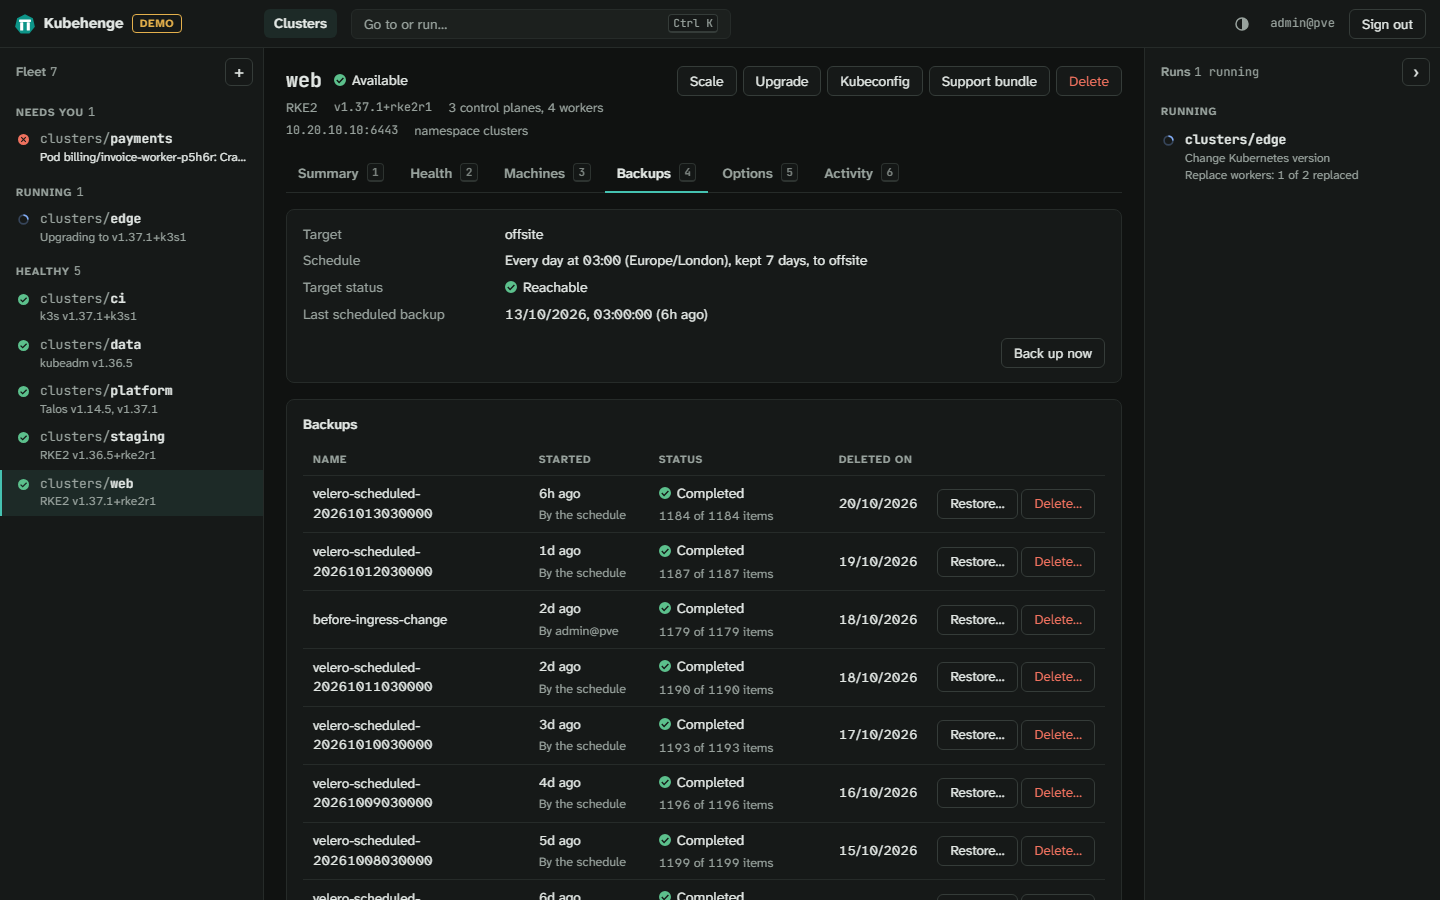
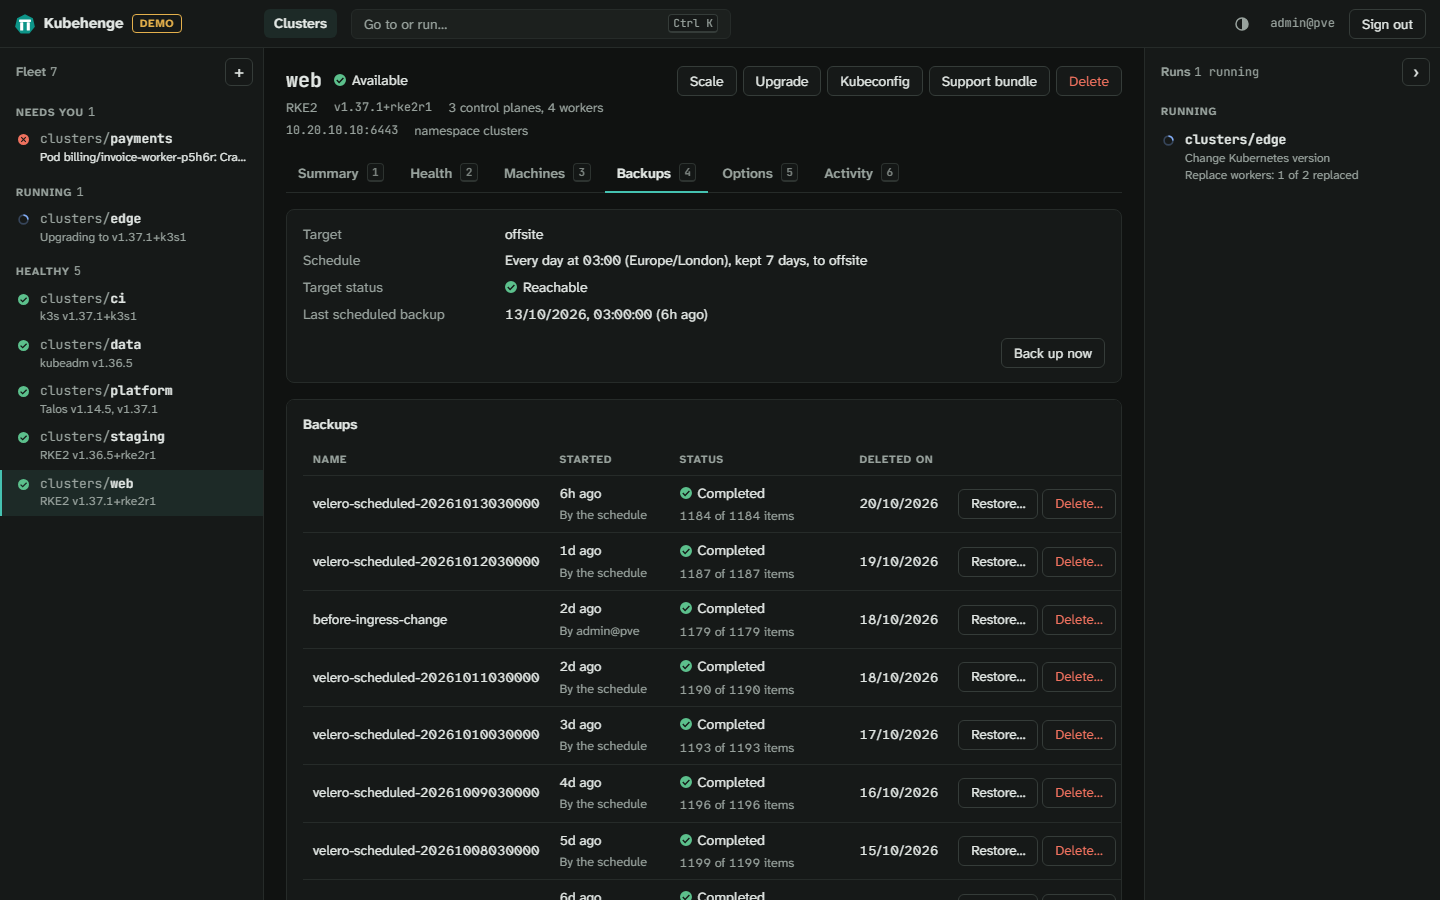
A running run shows its start once, and backup, pool and health check names stay on one line

diff --git a/web/src/RunPage.tsx b/web/src/RunPage.tsx
@@ -31,12 +31,12 @@ const stepDots: Record<RunStep["state"], string> = {
 
 const msPerMinute = 60_000;
 
-// took says how long a run took, or has taken so far.
+// took says how long a finished run took. A running one has only its start, which says the same.
 function took(r: RunInfo): string | undefined {
-  if (r.started === undefined) {
+  if (r.started === undefined || r.finished === undefined) {
     return undefined;
   }
-  const end = r.finished === undefined ? Date.now() : new Date(r.finished).getTime();
+  const end = new Date(r.finished).getTime();
   const minutes = Math.max(0, Math.round((end - new Date(r.started).getTime()) / msPerMinute));
   return minutes < 1 ? "<1 min" : `${minutes} min`;
 }
@@ -81,7 +81,7 @@ export function RunPage({ id }: { id: string }): JSX.Element {
             </span>
             {run.by !== undefined && <span>by {run.by}</span>}
             {run.started !== undefined && <span>started {age(run.started)} ago</span>}
-            {spent !== undefined && <span>{run.finished === undefined ? `${spent} so far` : `took ${spent}`}</span>}
+            {spent !== undefined && <span>took {spent}</span>}
           </p>
         </div>
         <div className="page-actions">

diff --git a/web/src/Health.tsx b/web/src/Health.tsx
@@ -787,7 +787,7 @@ function Pools({ pools }: { pools: HealthSection<PoolState> }): JSX.Element | nu
             const s = poolStatus(p);
             return (
               <tr key={p.name} className={s.state === "ok" ? "" : "attention"}>
-                <td>{p.name}</td>
+                <td className="nowrap">{p.name}</td>
                 <td>
                   <Status state={s.state} text={s.text} />
                   {filled(p.message) && <Detail>{p.message}</Detail>}
@@ -847,7 +847,7 @@ function HealthChecks({ checks }: { checks: HealthSection<HealthCheck> }): JSX.E
             const s = checkStatus(x);
             return (
               <tr key={x.name} className={s.state === "ok" ? "" : "attention"}>
-                <td>{x.name}</td>
+                <td className="nowrap">{x.name}</td>
                 <td>
                   <Status state={s.state} text={s.text} />
                   {filled(x.message) && <Detail>{x.message}</Detail>}

diff --git a/web/src/Backups.tsx b/web/src/Backups.tsx
@@ -892,7 +892,7 @@ function BackupsTable({
             const mayDelete = v.canDelete && deletable(b);
             return (
               <tr key={b.name}>
-                <td>{b.name}</td>
+                <td className="nowrap">{b.name}</td>
                 <td className="started">
                   <span title={when(b.started)}>{ago(b.started)}</span>
                   {(b.scheduled || filled(b.by)) && (
